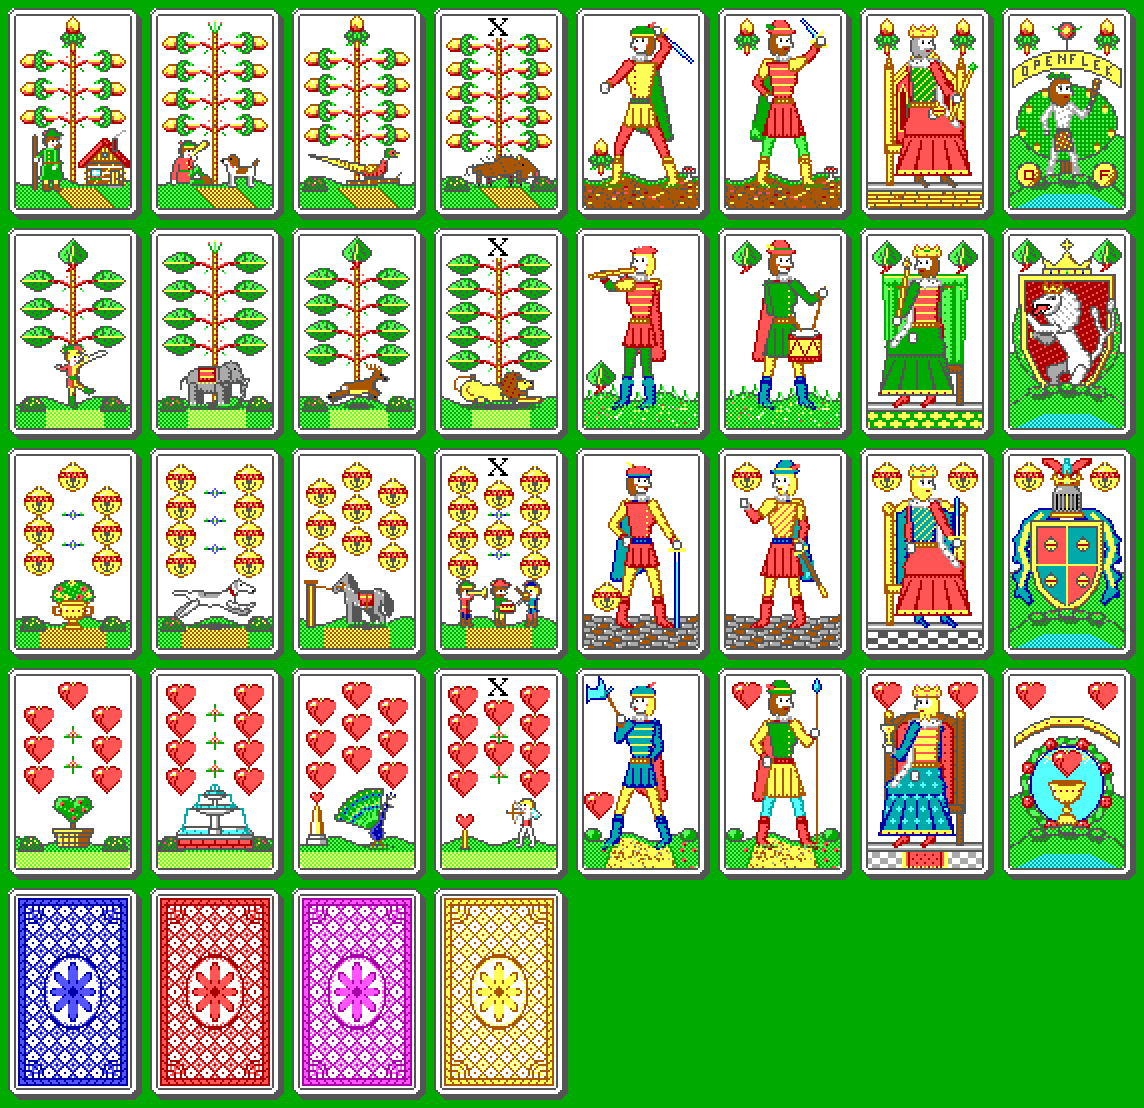
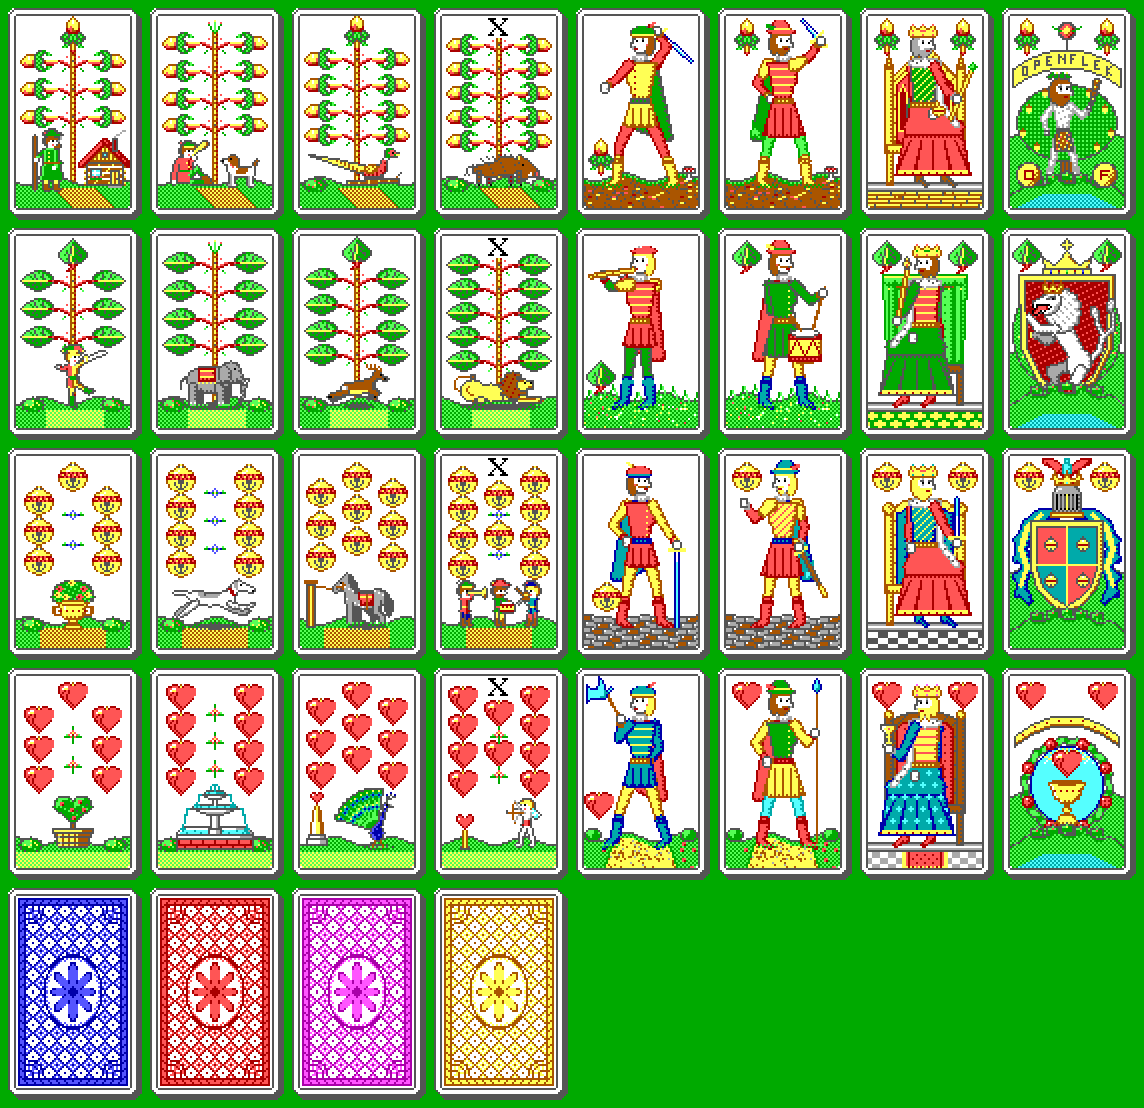
draw clean lit shrubs on aces and number cards, no water on the bell ace

diff --git a/scripts/deck_gen/aces.py b/scripts/deck_gen/aces.py
@@ -20,7 +20,7 @@ from scripts.deck_gen.palette import (
 from scripts.deck_gen import animals, people
 from scripts.deck_gen.palette import checker, fill_terrain
 from scripts.deck_gen.rig import Rig, darker
-from scripts.deck_gen.symbols import draw_suit
+from scripts.deck_gen.symbols import draw_shrub, draw_suit
 
 
 # Small round hawk-bell (7x8) charged on the Bell Ace shield: a loop on top,
@@ -47,22 +47,24 @@ def _fill_ace_ground(c, top_y=52, water=True):
                     c.put(x, y, checker(x, y, CYAN, LIGHT_CYAN))
 
 
-def _overlap_foreground_turf(c, base_y=79):
-    """Draws overlapping foreground hillock, mossy shadow, and bushes over a crest base."""
+def _overlap_foreground_turf(c, base_y=79, water=True):
+    """Draws the foreground hillock over the bottom of a crest, with a row of flowering shrubs.
+
+    `water` matches the ground's: an ace without a river gets no water here either.
+    """
 
     def colour(x, y, crest):
         dx = abs(x - 30)
-        if y <= crest + 2 and dx < 18:
-            return checker(x, y, GREEN, DARK_GRAY)
-        if y >= 91 and dx <= 12 + (y - 91) * 2:
+        if y <= crest + 1 and dx < 18:
+            return GREEN
+        if water and y >= 91 and dx <= 12 + (y - 91) * 2:
             return checker(x, y, CYAN, LIGHT_CYAN)
         return checker(x, y, GREEN, LIGHT_GREEN)
 
     fill_terrain(c, base_y - 3, lambda x: int(round(base_y + (x - 30) ** 2 / 140.0 + math.sin(x * 0.45) * 1.2)), colour)
 
     for cx, cy in [(15, base_y), (23, base_y - 1), (30, base_y - 2), (37, base_y - 1), (45, base_y)]:
-        c.fill_ellipse(cx, cy, 4, 2, GREEN, LIGHT_GREEN, outline=DARK_GRAY, mode='checker')
-        c.put(cx, cy - 1, YELLOW if cx % 2 == 0 else LIGHT_RED)
+        draw_shrub(c, cx, cy + 1, 4, 2.5, [(0, -2, YELLOW if cx % 2 == 0 else LIGHT_RED)])
 
 
 def draw_ace_acorn(c):
@@ -255,7 +257,7 @@ def draw_ace_bell(c):
     for px, col in ((27, RED), (30, LIGHT_CYAN), (33, RED)):
         c.put(px, 15, col)
 
-    _overlap_foreground_turf(c, base_y=82)
+    _overlap_foreground_turf(c, base_y=82, water=False)
 
 
 def draw_ace_heart(c):

diff --git a/scripts/deck_gen/symbols.py b/scripts/deck_gen/symbols.py
@@ -219,3 +219,32 @@ def draw_tree_trunk(c, top_y, bottom_y, branch_ys, suit):
         c.put(cx - 3, by - 2, LIGHT_RED)
         c.put(cx + 3, by - 2, LIGHT_RED)
         c.put(cx, by, DARK_GRAY)
+
+
+def draw_shrub(c, cx, base_y, rx, ry, flowers=()):
+    """A rounded shrub standing on row `base_y`: solid green, lit on the upper left, dark-edged.
+
+    Its flat bottom has no outline, so it grows out of the turf. `flowers`
+    lists blooms as (dx, dy, colour) relative to (cx, base_y).
+    """
+    cy = base_y - ry + 1
+    lx, ly = cx - rx * 0.35, cy - ry * 0.35
+
+    def inside(x, y):
+        return y <= base_y and ((x - cx) / rx) ** 2 + ((y - cy) / ry) ** 2 <= 1
+
+    for y in range(int(cy - ry) - 1, base_y + 1):
+        for x in range(int(cx - rx) - 1, int(cx + rx) + 2):
+            if not inside(x, y):
+                continue
+            if not (inside(x - 1, y) and inside(x + 1, y) and inside(x, y - 1)):
+                col = DARK_GRAY
+            elif ((x - lx) / (rx * 0.5)) ** 2 + ((y - ly) / (ry * 0.5)) ** 2 <= 1:
+                col = LIGHT_GREEN
+            elif (x * 3 + y * 5) % 11 == 0:
+                col = LIGHT_GREEN
+            else:
+                col = GREEN
+            c.put(x, y, col)
+    for dx, dy, col in flowers:
+        c.put(cx + dx, base_y + dy, col)

diff --git a/scripts/deck_gen/vignettes.py b/scripts/deck_gen/vignettes.py
@@ -22,6 +22,7 @@ from scripts.deck_gen.rig import Rig
 from scripts.deck_gen.symbols import (
     draw_floret,
     draw_roman_x,
+    draw_shrub,
     draw_suit,
     draw_tree_trunk,
 )
@@ -107,19 +108,9 @@ def draw_ground(c, suit, rank):
 
 
 def draw_bush_or_flowers(c, cx, base_y, col):
-    """Draws a flat-bottomed flowering bush rooted directly into base_y..base_y+1."""
-    pts = [
-        (cx - 6, base_y + 1),
-        (cx - 5, base_y - 3),
-        (cx - 2, base_y - 6),
-        (cx + 2, base_y - 6),
-        (cx + 5, base_y - 3),
-        (cx + 6, base_y + 1),
-    ]
-    c.fill_poly(pts, GREEN, DARK_GRAY, outline=DARK_GRAY, mode='checker')
-    for dx, dy in [(-3, -3), (0, -5), (3, -3), (-1, -2), (2, -4)]:
-        c.put(cx + dx, base_y + dy, col)
-    c.put(cx, base_y - 3, YELLOW)
+    """Draws a flowering bush rooted into the turf at base_y..base_y+1."""
+    blooms = [(dx, dy, col) for dx, dy in [(-3, -3), (0, -5), (3, -3), (-1, -2), (2, -4)]]
+    draw_shrub(c, cx, base_y + 1, 6, 4, blooms + [(0, -3, YELLOW)])
 
 
 def _draw_obelisk(c, cx, base_y):
